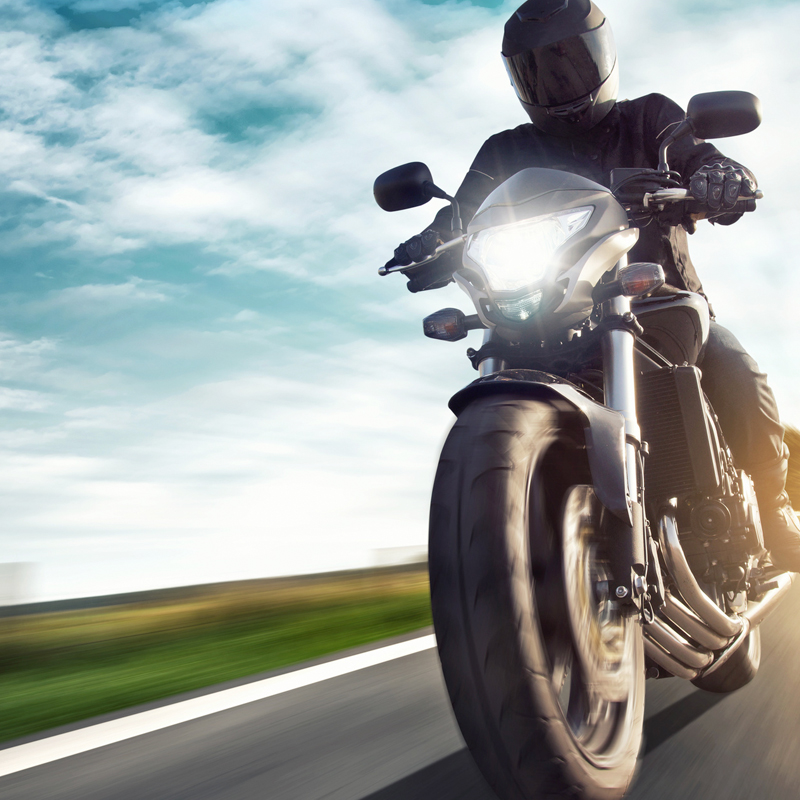
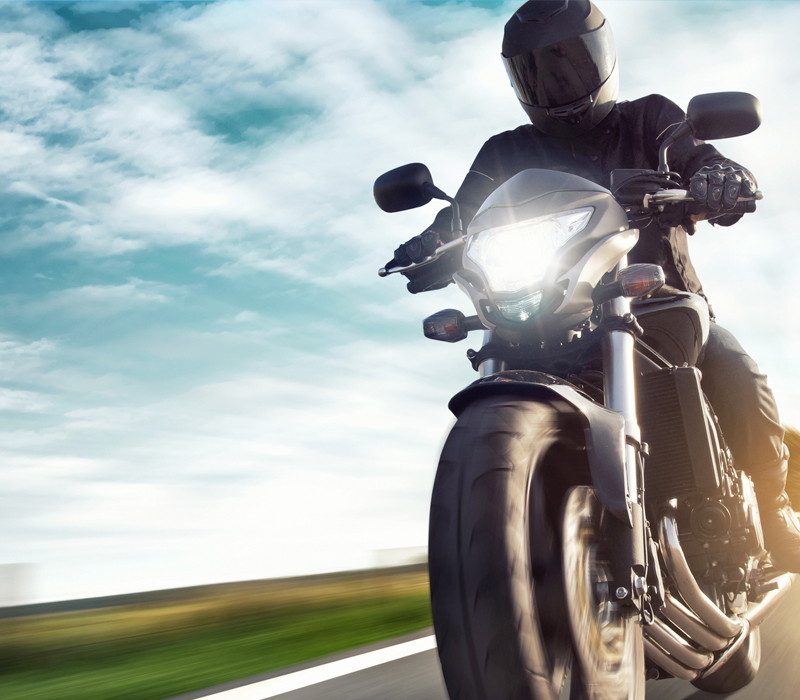
Add header background

diff --git a/newsletter-01.html b/newsletter-01.html
@@ -253,11 +253,11 @@
                     <td align="center">
                         <!--[if gte mso 9]>
                         <v:rect xmlns:v="urn:schemas-microsoft-com:vml" fill="true" stroke="false" style="width:800px; height:545px; margin:auto;">
-                            <v:fill type="tile" src="http://www.guiwidgets.com/demo/max/images/800x700x1.jpg" color="#f6f8f7" />
+                            <v:fill type="tile" src="https://raw.githubusercontent.com/nousmotards/newsletter-insurance/master/images/header-background.jpg" color="#f6f8f7" />
                             <v:textbox inset="0,0,0,0">
                         <![endif]-->
                         <div style="margin:auto;">
-                            <table align="center" background="http://www.guiwidgets.com/demo/max/images/800x700x1.jpg" border="0" cellpadding="0" cellspacing="0" width="100%" style="background-image:url(http://www.guiwidgets.com/demo/max/images/800x700x1.jpg); background-position:center; background-repeat:no-repeat;">
+                            <table align="center" background="https://raw.githubusercontent.com/nousmotards/newsletter-insurance/master/images/header-background.jpg" border="0" cellpadding="0" cellspacing="0" width="100%" style="background-image:url(https://raw.githubusercontent.com/nousmotards/newsletter-insurance/master/images/header-background.jpg); background-position:center; background-repeat:no-repeat;">
                                 <tbody>
                                 <tr>
                                     <td height="160"></td>
